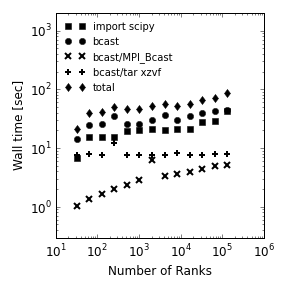
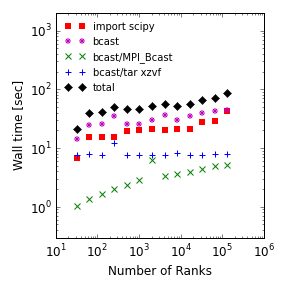
update plots.

diff --git a/cray-xc30/plot.py b/cray-xc30/plot.py
@@ -7,11 +7,11 @@ nodes, bcast, tar, chmod, bcasttot, launch = numpy.loadtxt('./collect.txt', unpa
 f = Figure(figsize=(4, 4))
 ax = f.add_subplot(111)
 
-ax.plot(nodes * 24, launch, 's ', color='k', label='import scipy')
-ax.plot(nodes * 24, bcasttot, 'o ', color='k', label='bcast')
-ax.plot(nodes * 24, bcast, 'x ', color='k', mew=2, label='bcast/MPI_Bcast')
-ax.plot(nodes * 24, tar,   '+ ', color='k', mew=2, label='bcast/tar xzvf')
-ax.plot(nodes * 24, launch + bcasttot, 'd ', color='k', label='total')
+ax.plot(nodes * 32, launch, 's ', color='r', mec='none', label='import scipy')
+ax.plot(nodes * 32, bcasttot, ls='none', marker=(8, 2, 0), color='m', label='bcast')
+ax.plot(nodes * 32, bcast, 'x ', color='g', mew=1, label='bcast/MPI_Bcast')
+ax.plot(nodes * 32, tar,   '+ ', color='b', mew=1, label='bcast/tar xzvf')
+ax.plot(nodes * 32, launch + bcasttot, 'D ', color='k', label='total')
 
 ax.set_xlabel('Number of Ranks')
 ax.set_ylabel('Wall time [sec]')

diff --git a/cray-xt/plot.py b/cray-xt/plot.py
@@ -7,11 +7,11 @@ nodes, bcast, tar, chmod, bcasttot, launch = numpy.loadtxt('./collect.txt', unpa
 f = Figure(figsize=(4, 4))
 ax = f.add_subplot(111)
 
-ax.plot(nodes * 32, launch, 's ', color='k', label='import scipy')
-ax.plot(nodes * 32, bcasttot, 'o ', color='k', label='bcast')
-ax.plot(nodes * 32, bcast, 'x ', color='k', mew=2, label='bcast/MPI_Bcast')
-ax.plot(nodes * 32, tar,   '+ ', color='k', mew=2, label='bcast/tar xzvf')
-ax.plot(nodes * 32, launch + bcasttot, 'd ', color='k', label='total')
+ax.plot(nodes * 32, launch, 's ', color='r', mec='none', label='import scipy')
+ax.plot(nodes * 32, bcasttot, ls='none', marker=(8, 2, 0), color='m', label='bcast')
+ax.plot(nodes * 32, bcast, 'x ', color='g', mew=1, label='bcast/MPI_Bcast')
+ax.plot(nodes * 32, tar,   '+ ', color='b', mew=1, label='bcast/tar xzvf')
+ax.plot(nodes * 32, launch + bcasttot, 'D ', color='k', label='total')
 
 ax.set_xlabel('Number of Ranks')
 ax.set_ylabel('Wall time [sec]')
